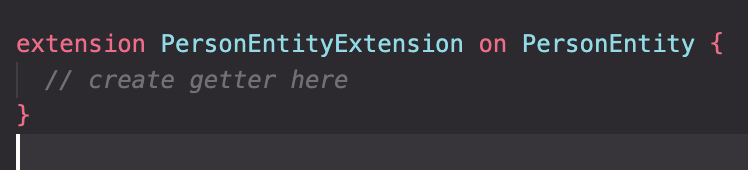
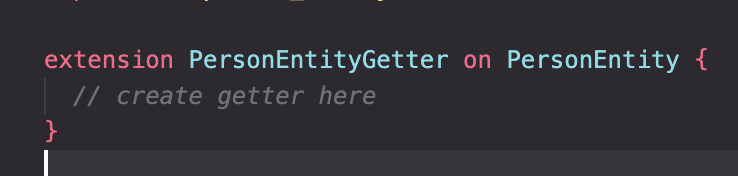
fix: fix extension naming

diff --git a/src/extensions/directGetterExtension.ts b/src/extensions/directGetterExtension.ts
@@ -21,7 +21,7 @@ export async function createDirectGetter() {
 
   const extensionCode = `
 
-extension ${className}Extension on ${className} {
+extension ${className}Getter on ${className} {
   // create getter here
 }
 `;

diff --git a/README.md b/README.md
@@ -1,4 +1,4 @@
-# dart-getter README
+# Dart Getter VSCode Extension
 
 This is the README for the "dart-getter" extension, which provides functionality related to generating Dart getter methods.
 
